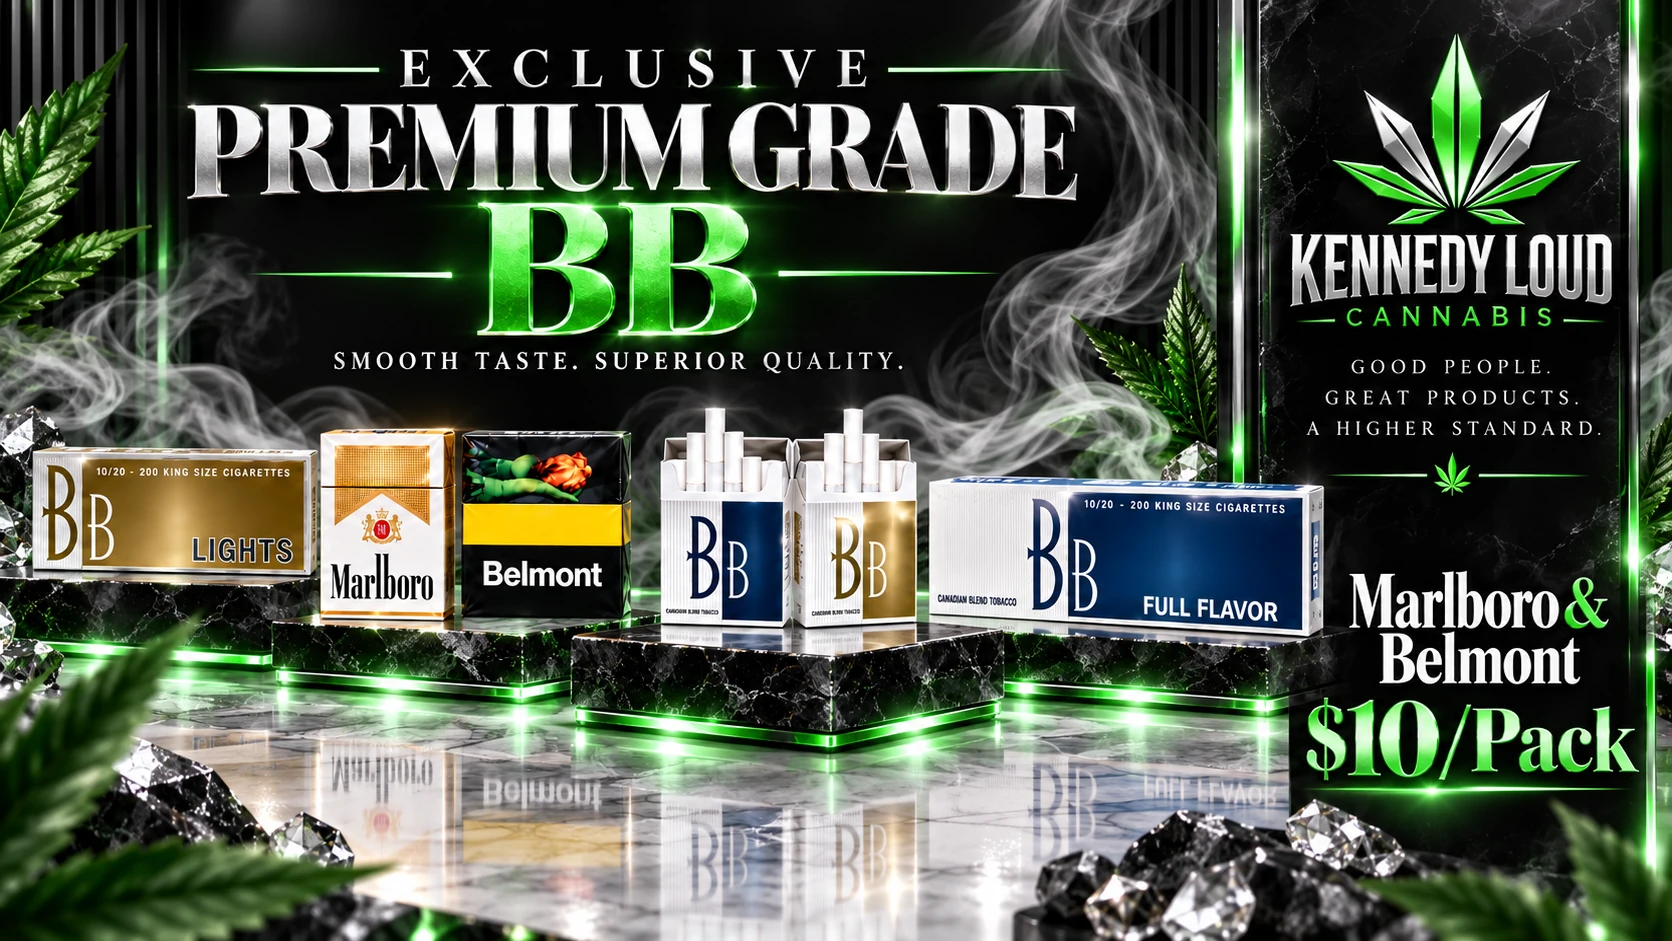
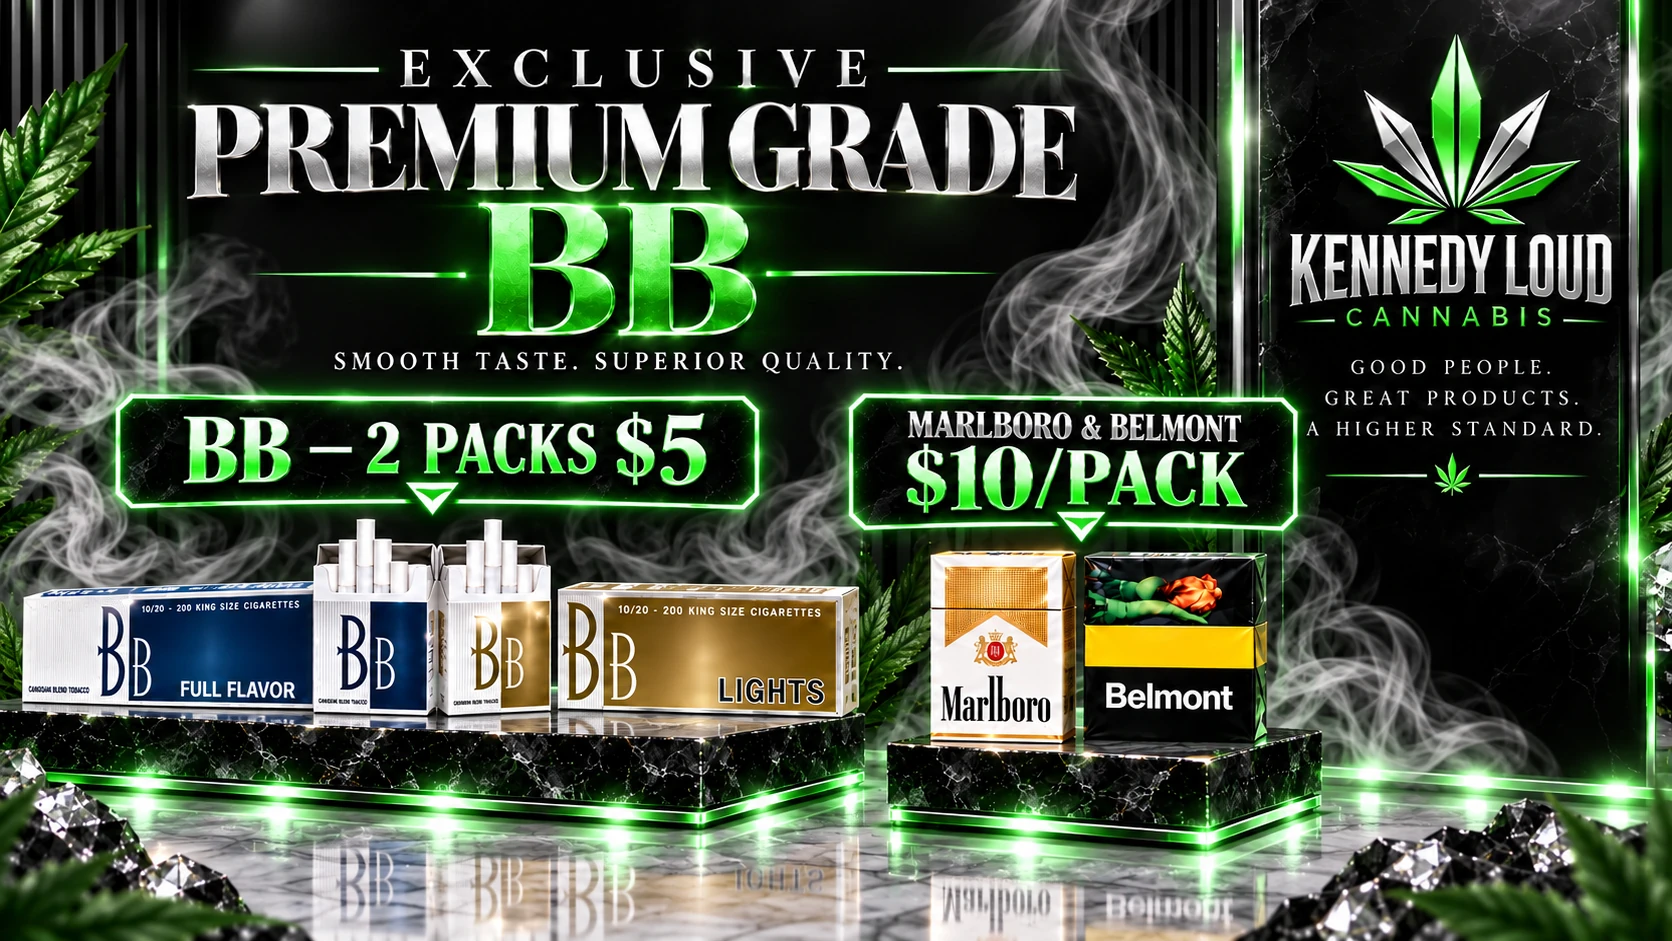
Add core promos to matching categories

diff --git a/app/components/CategoryCoreBanners.tsx b/app/components/CategoryCoreBanners.tsx
@@ -1,0 +1,52 @@
+import Link from "next/link";
+
+type CategoryCoreBannersProps = { kind: "weed" | "vapes" | "cigarettes" };
+
+const STORE_NAME = "Kennedy Loud Cannabis";
+const STORE_AREA = "Hillcrest Avenue, Brampton";
+const STORE_ORIGIN = "https://kennedyloudcannabis.com";
+const TOP_WEED_IMAGE = "/banners/top-weed-tier-klc01.webp";
+const CIGARETTE_IMAGE = "/banners/native-cigarette-offer-20260822.webp";
+const VAPE_IMAGE = "/banners/core-vapes-nicotine-thc.webp";
+const PREMIUM_CIGARETTE_IMAGE = "/banners/core-premium-bb-marlboro-belmont.webp";
+
+export const cigaretteCategoryImage = {
+  alt: `${STORE_NAME} in ${STORE_AREA} — 2 packs for $5 mix and match and $25 carton cigarette offer`,
+  title: `${STORE_NAME} cigarette offer — 2 packs $5 mix and match, $25 carton`,
+};
+
+const promos = {
+  weed: { image: TOP_WEED_IMAGE, href: "/exotic-weed", alt: `${STORE_NAME} in ${STORE_AREA} — Exotic, Premium and AAA+ top weed tiers`, title: `${STORE_NAME} top weed tiers — Exotic, Premium and AAA+`, caption: "Exotic, Premium and AAA+ weed", linkLabel: "Shop weed tiers", schemaName: `${STORE_NAME} top weed tiers`, schemaDescription: `Exotic, Premium and AAA+ weed tiers at ${STORE_NAME} in ${STORE_AREA}.` },
+  vapes: { image: VAPE_IMAGE, href: "/items/vapes", alt: `${STORE_NAME} in ${STORE_AREA} — nicotine vapes and THC vapes`, title: `${STORE_NAME} nicotine vapes and THC vapes`, caption: "Nicotine vapes + THC vapes", linkLabel: "Shop vapes", schemaName: `${STORE_NAME} nicotine and THC vapes`, schemaDescription: `Nicotine vapes and THC vapes at ${STORE_NAME} in ${STORE_AREA}.` },
+  cigarettes: { image: CIGARETTE_IMAGE, href: "/items/cigarettes", alt: cigaretteCategoryImage.alt, title: cigaretteCategoryImage.title, caption: "2 packs $5 mix & match · $25 carton", linkLabel: "Shop cigarettes", schemaName: `${STORE_NAME} cigarette mix and match`, schemaDescription: `Two packs for $5 mix and match and $25 carton cigarette offer at ${STORE_NAME} in ${STORE_AREA}.` },
+  premium: { image: PREMIUM_CIGARETTE_IMAGE, href: "/items/cigarettes", alt: `${STORE_NAME} in ${STORE_AREA} — BB Full Flavor and Lights 2 packs for $5, Marlboro and Belmont $10 per pack`, title: `${STORE_NAME} premium cigarettes — BB 2 packs $5, Marlboro and Belmont $10 per pack`, caption: "BB Full Flavor + Lights — 2 packs $5 · Marlboro & Belmont — $10/pack", linkLabel: "Shop cigarettes", schemaName: `${STORE_NAME} premium cigarette offer`, schemaDescription: `BB Full Flavor and Lights two packs for $5 plus Marlboro and Belmont for $10 per pack at ${STORE_NAME} in ${STORE_AREA}.` },
+} as const;
+
+const figureStyle = { margin: 0, width: "100%" } as const;
+const imageStyle = { display: "block", width: "100%", maxWidth: "100%", height: "auto" } as const;
+const captionStyle = { margin: 0, padding: "14px 18px", background: "#111827", color: "#ffffff", textAlign: "center" as const, fontSize: "clamp(17px, 1.7vw, 28px)", fontWeight: 800, lineHeight: 1.35 };
+const captionLinkStyle = { color: "inherit", textDecoration: "underline", textUnderlineOffset: "3px" } as const;
+
+function PromoFigure({ promo, renderImage = true }: { promo: (typeof promos)[keyof typeof promos]; renderImage?: boolean }) {
+  return (
+    <figure data-category-core-banner={promo === promos.premium ? "premium-cigarettes" : promo === promos.cigarettes ? "cigarettes" : promo === promos.vapes ? "vapes" : "weed"} style={figureStyle}>
+      {renderImage ? <Link href={promo.href} aria-label={promo.alt} style={{ display: "block", width: "100%" }}>
+        {/* eslint-disable-next-line @next/next/no-img-element */}
+        <img src={promo.image} alt={promo.alt} title={promo.title} style={imageStyle} loading="lazy" />
+      </Link> : null}
+      <figcaption style={captionStyle}>{promo.caption} · <Link href={promo.href} style={captionLinkStyle}>{promo.linkLabel}</Link></figcaption>
+    </figure>
+  );
+}
+
+export default function CategoryCoreBanners({ kind }: CategoryCoreBannersProps) {
+  const visiblePromos = kind === "cigarettes" ? [promos.cigarettes, promos.premium] : [promos[kind]];
+  const imageObjects = visiblePromos.map((promo) => ({ "@type": "ImageObject", name: promo.schemaName, description: promo.schemaDescription, contentUrl: `${STORE_ORIGIN}${promo.image}` }));
+  return (
+    <section data-category-core-promos={kind} aria-label={`${STORE_NAME} ${kind} promotions`} style={{ width: "100%", maxWidth: "100%", overflowX: "hidden", marginBottom: "24px" }}>
+      <script type="application/ld+json" dangerouslySetInnerHTML={{ __html: JSON.stringify({ "@context": "https://schema.org", "@graph": imageObjects }).replace(/</g, "\\u003c") }} />
+      {kind === "cigarettes" ? <PromoFigure promo={promos.cigarettes} renderImage={false} /> : <PromoFigure promo={promos[kind]} />}
+      {kind === "cigarettes" ? <PromoFigure promo={promos.premium} /> : null}
+    </section>
+  );
+}

diff --git a/app/components/FleetAnnouncementBanner.tsx b/app/components/FleetAnnouncementBanner.tsx
@@ -16,7 +16,7 @@ const imageObjects = [
   { name: `${STORE_NAME} top weed tiers`, description: `Exotic, Premium and AAA+ weed tiers at ${STORE_NAME} in ${STORE_AREA}.`, contentUrl: `${STORE_ORIGIN}${TOP_WEED_IMAGE}` },
   { name: `${STORE_NAME} nicotine and THC vapes`, description: `Nicotine vapes and THC vapes at ${STORE_NAME} in ${STORE_AREA}.`, contentUrl: `${STORE_ORIGIN}${VAPE_IMAGE}` },
   { name: `${STORE_NAME} cigarette mix and match`, description: `Two packs for $5 mix and match and $25 carton cigarette offer at ${STORE_NAME} in ${STORE_AREA}.`, contentUrl: `${STORE_ORIGIN}${CIGARETTE_IMAGE}` },
-  { name: `${STORE_NAME} premium cigarette offer`, description: `BB Full Flavor and Lights plus Marlboro and Belmont cigarette offer at ${STORE_NAME} in ${STORE_AREA}.`, contentUrl: `${STORE_ORIGIN}${PREMIUM_CIGARETTE_IMAGE}` },
+  { name: `${STORE_NAME} premium cigarette offer`, description: `BB Full Flavor and Lights two packs for $5 plus Marlboro and Belmont for $10 per pack at ${STORE_NAME} in ${STORE_AREA}.`, contentUrl: `${STORE_ORIGIN}${PREMIUM_CIGARETTE_IMAGE}` },
 ].map((image) => ({ "@type": "ImageObject", ...image }));
 
 function isThanksgivingNoticeActive(date: Date) {
@@ -29,7 +29,7 @@ function isThanksgivingNoticeActive(date: Date) {
 const figureStyle = { margin: 0, width: "100%" } as const;
 const imageStyle = { display: "block", width: "100%", maxWidth: "100%", height: "auto" } as const;
 const linkStyle = { display: "block", width: "100%" } as const;
-const captionStyle = { margin: 0, padding: "10px 14px", background: "#111827", color: "#ffffff", textAlign: "center" as const, fontWeight: 800, lineHeight: 1.35 };
+const captionStyle = { margin: 0, padding: "14px 18px", background: "#111827", color: "#ffffff", textAlign: "center" as const, fontSize: "clamp(17px, 1.7vw, 28px)", fontWeight: 800, lineHeight: 1.35 };
 const captionLinkStyle = { color: "inherit", textDecoration: "underline", textUnderlineOffset: "3px" } as const;
 
 export default function FleetAnnouncementBanner() {
@@ -72,9 +72,9 @@ export default function FleetAnnouncementBanner() {
       <figure data-core-banner="premium-cigarettes" data-premium-cigarette-banner="" style={figureStyle}>
         <Link href="/items/cigarettes" aria-label={`Shop BB, Marlboro and Belmont cigarette offers at ${STORE_NAME}`} style={linkStyle}>
           {/* eslint-disable-next-line @next/next/no-img-element */}
-          <img src={PREMIUM_CIGARETTE_IMAGE} alt={`${STORE_NAME} in ${STORE_AREA} — BB Full Flavor and Lights, Marlboro and Belmont premium cigarettes`} title={`${STORE_NAME} premium cigarettes — BB, Marlboro and Belmont`} style={imageStyle} loading="lazy" />
+          <img src={PREMIUM_CIGARETTE_IMAGE} alt={`${STORE_NAME} in ${STORE_AREA} — BB Full Flavor and Lights 2 packs for $5, Marlboro and Belmont $10 per pack`} title={`${STORE_NAME} premium cigarettes — BB 2 packs $5, Marlboro and Belmont $10 per pack`} style={imageStyle} loading="lazy" />
         </Link>
-        <figcaption style={captionStyle}>BB Full Flavor + Lights · Marlboro &amp; Belmont $10/pack · <Link href="/items/cigarettes" style={captionLinkStyle}>Shop cigarettes</Link></figcaption>
+        <figcaption style={captionStyle}>BB Full Flavor + Lights — 2 packs $5 · Marlboro &amp; Belmont — $10/pack · <Link href="/items/cigarettes" style={captionLinkStyle}>Shop cigarettes</Link></figcaption>
       </figure>
 
       <FlowerBogoStrip hero />

diff --git a/app/items/[category]/page.tsx b/app/items/[category]/page.tsx
@@ -2,6 +2,7 @@ import { notFound } from "next/navigation";
 import type { Metadata } from "next";
 import Link from "next/link";
 import Navbar from "../../components/Navbar";
+import CategoryCoreBanners, { cigaretteCategoryImage } from "../../components/CategoryCoreBanners";
 import SafeImage from "../../components/SafeImage";
 import { getItemPriceDisplay } from "../../lib/itemPricing";
 import Footer from "../../components/Footer";
@@ -98,7 +99,8 @@ export default async function ItemsCategoryPage({
           <>
             <img
               src={config.banner}
-              alt={config.name}
+              alt={catSlug === "cigarettes" ? cigaretteCategoryImage.alt : config.name}
+              title={catSlug === "cigarettes" ? cigaretteCategoryImage.title : config.name}
               style={{ width: "100%", height: "auto", display: "block", objectFit: "contain" }}
             />
             <div className={styles.heroContent} style={{ padding: "28px 24px 8px", textAlign: "center" }}>
@@ -115,6 +117,9 @@ export default async function ItemsCategoryPage({
           </div>
         )}
       </section>
+
+      {(catSlug === "vapes" || catSlug === "vape-disposables") && <CategoryCoreBanners kind="vapes" />}
+      {catSlug === "cigarettes" && <CategoryCoreBanners kind="cigarettes" />}
 
       {(catSlug === "vapes" || catSlug === "vape-disposables") && <VapeActionPanel compact />}
 

diff --git a/app/[tier]/page.tsx b/app/[tier]/page.tsx
@@ -2,6 +2,7 @@ import { notFound } from "next/navigation";
 import type { Metadata } from "next";
 import Link from "next/link";
 import Navbar from "../components/Navbar";
+import CategoryCoreBanners from "../components/CategoryCoreBanners";
 import Footer from "../components/Footer";
 import FlowerCard from "../components/FlowerCard";
 import {
@@ -100,6 +101,8 @@ export default async function TierPage({
           className={styles.bannerImg}
         />
       </section>
+
+      {["EXOTIC", "PREMIUM", "AAA+"].includes(tierInfo.key.toUpperCase()) ? <CategoryCoreBanners kind="weed" /> : null}
 
       {/* ── Hero Content BELOW banner ── */}
       <section
